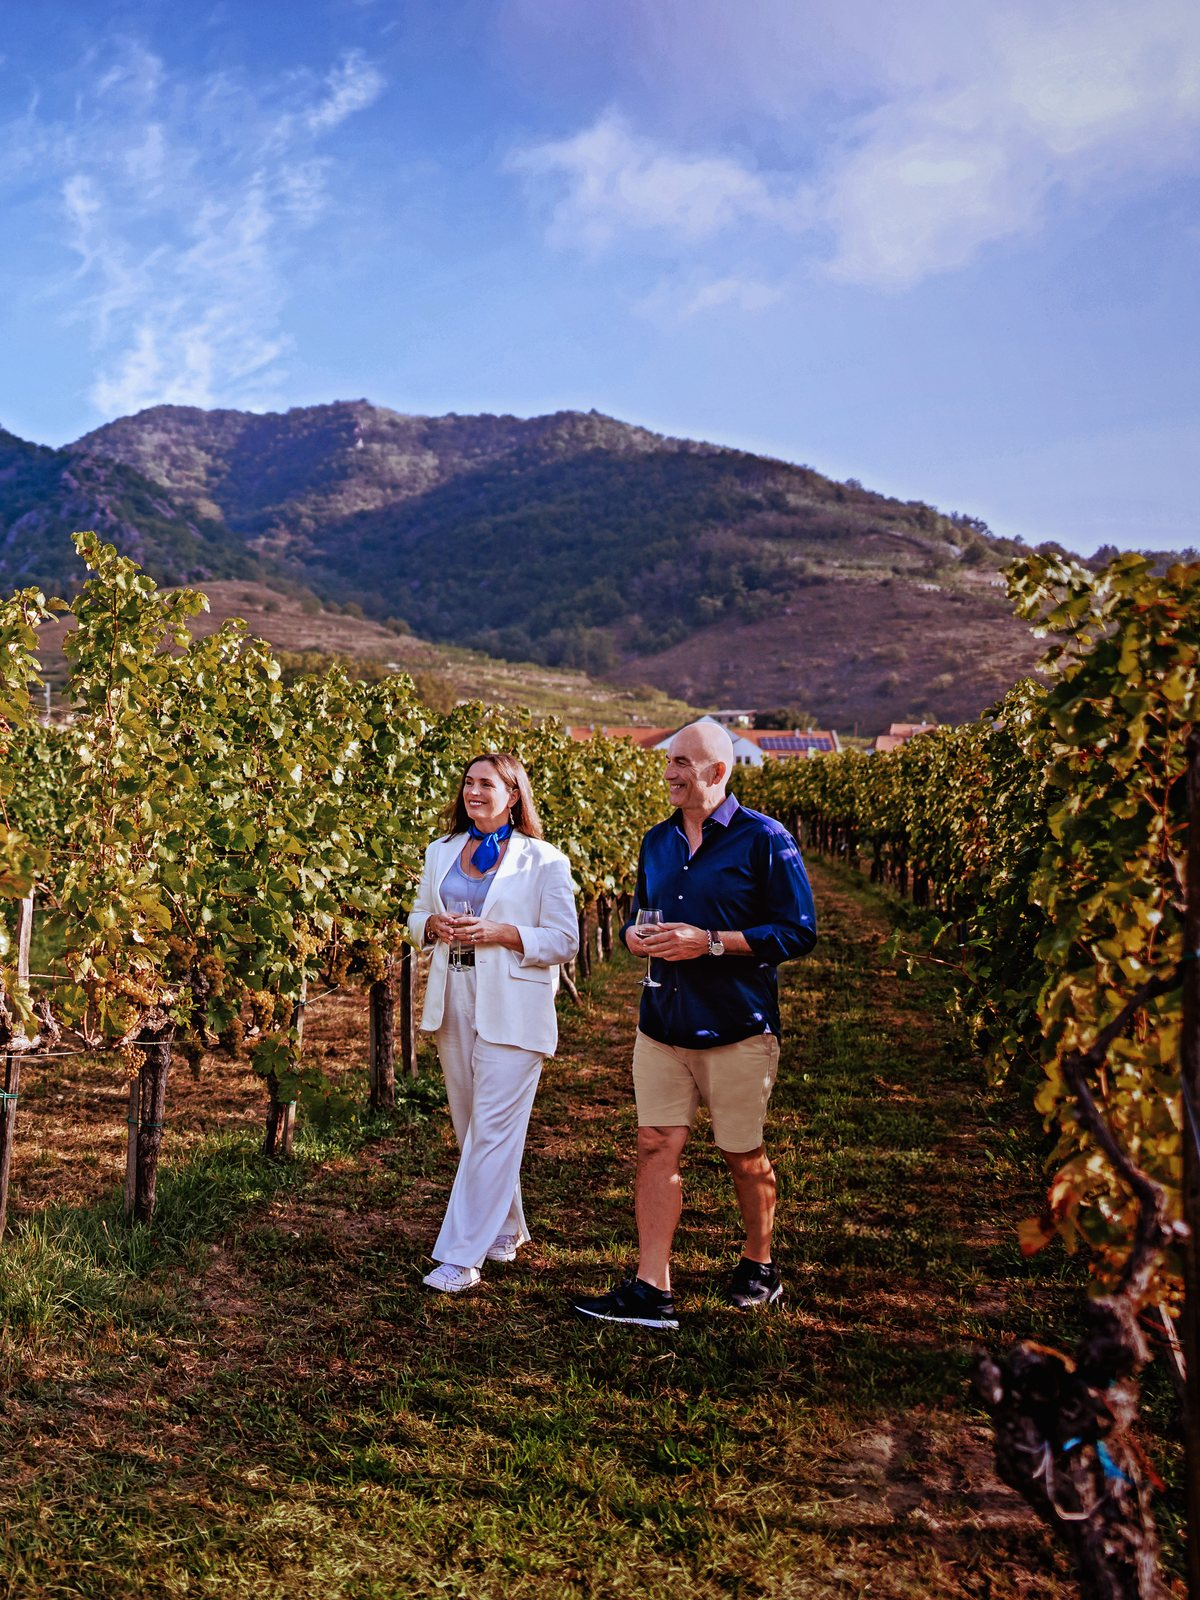
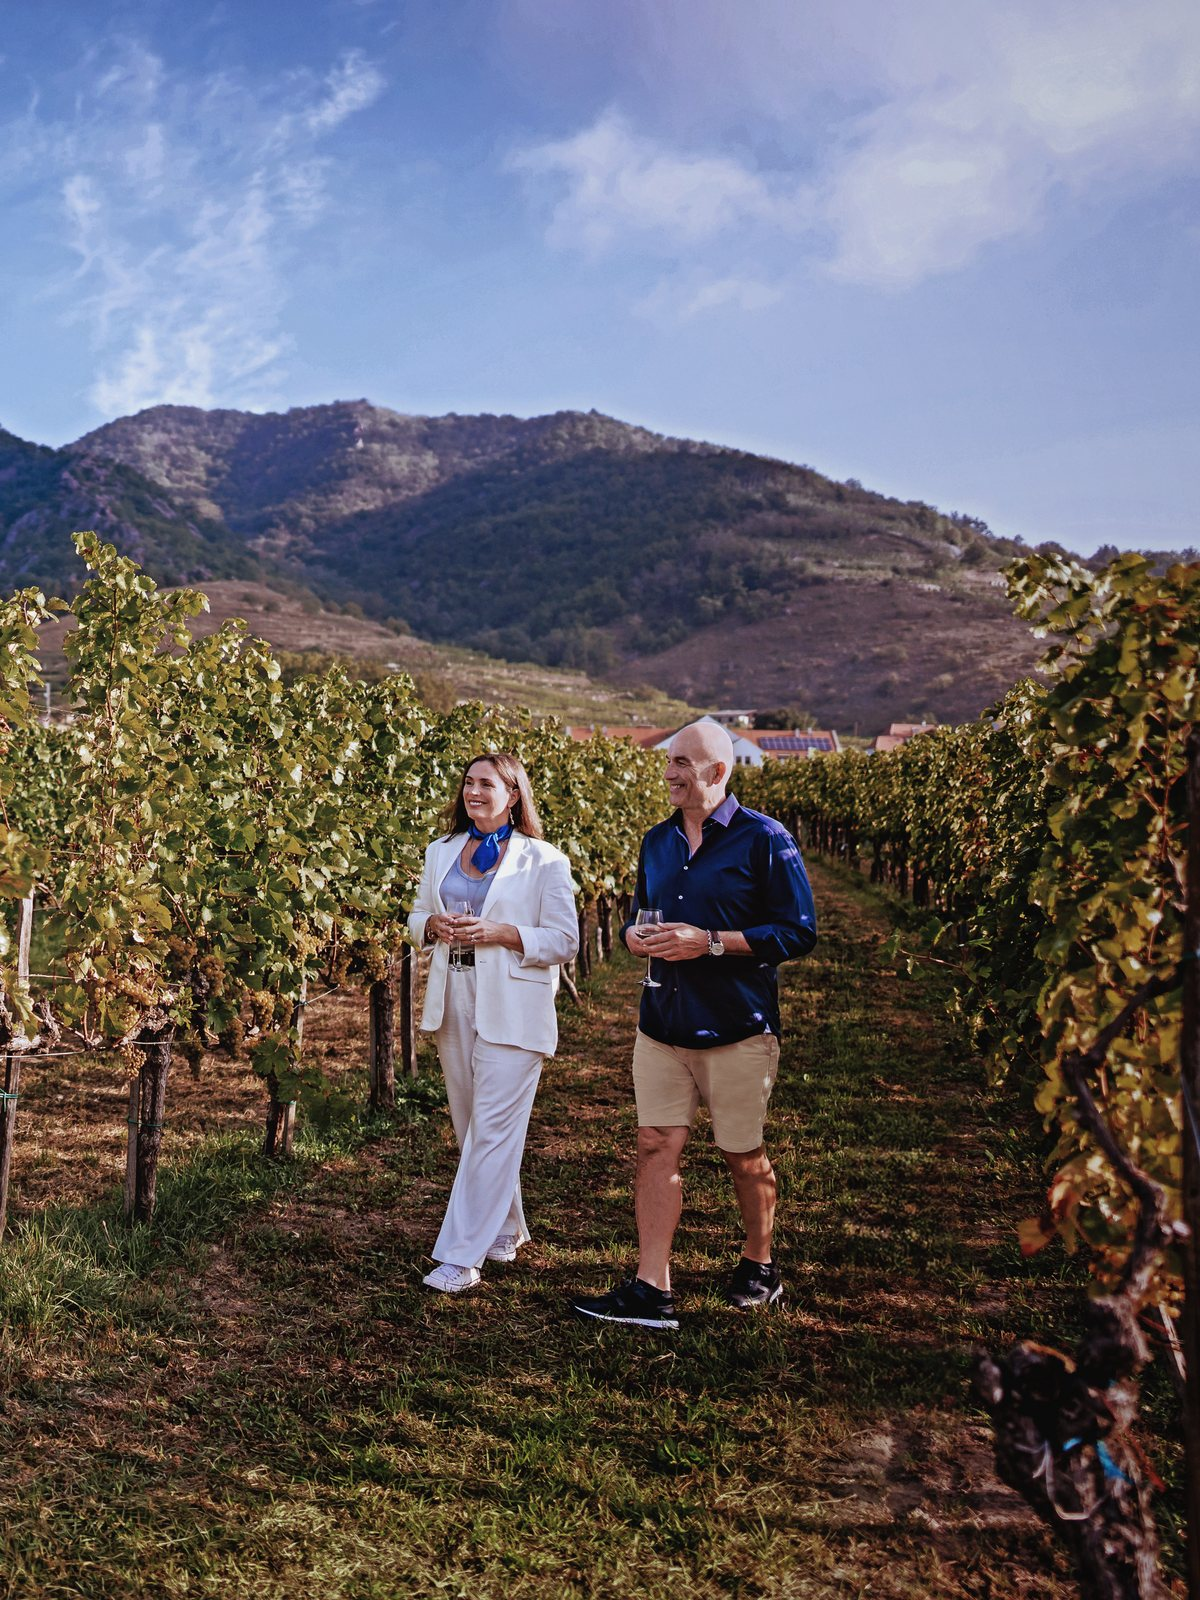
Home photo refresh + reviews page wired in
- Hero: toned down the vineyard couple (less saturated/HDR), more natural
- Service cards: all 4 now consistent 3:4 crops (family, cruise=AmaStella,
  luxury=Sip & Sail, international=Normandy castle); fixes uneven sizing
- Vision 'good part': AmaViola sunset ship as darkened full-bleed
- Reviews page: linked site-wide in footers (was orphaned), added
  'read all on Google' path

diff --git a/index.html b/index.html
@@ -246,10 +246,10 @@
       <h2>Where will T&amp;M Travel take you?</h2>
     </div>
     <div class="svc">
-      <a class="svc-card" href="/services"><img src="/brand_assets/photos/family.jpg" alt="" width="1500" height="1500" loading="lazy" decoding="async" /><h3>Family Vacations</h3></a>
-      <a class="svc-card" href="/services"><img src="/brand_assets/photos/rc-amaviola-sunset.jpg" alt="" width="1400" height="1626" loading="lazy" decoding="async" /><h3>Cruise Vacations</h3></a>
-      <a class="svc-card" href="/services"><img src="/brand_assets/photos/hero-bg.jpg" alt="" width="2304" height="1536" loading="lazy" decoding="async" /><h3>Luxury Vacations</h3></a>
-      <a class="svc-card" href="/services"><img src="/brand_assets/photos/tourists.jpg" alt="" width="2560" height="1707" loading="lazy" decoding="async" /><h3>International Vacations</h3></a>
+      <a class="svc-card" href="/services"><img src="/brand_assets/photos/svc-family.jpg" alt="" width="900" height="1200" loading="lazy" decoding="async" /><h3>Family Vacations</h3></a>
+      <a class="svc-card" href="/services"><img src="/brand_assets/photos/svc-cruise.jpg" alt="" width="900" height="1200" loading="lazy" decoding="async" /><h3>Cruise Vacations</h3></a>
+      <a class="svc-card" href="/services"><img src="/brand_assets/photos/svc-luxury.jpg" alt="" width="900" height="1200" loading="lazy" decoding="async" /><h3>Luxury Vacations</h3></a>
+      <a class="svc-card" href="/services"><img src="/brand_assets/photos/svc-international.jpg" alt="" width="900" height="1200" loading="lazy" decoding="async" /><h3>International Vacations</h3></a>
     </div>
     <div class="svc-more"><a class="btn btn-ghost" href="/services">See all the ways we travel</a></div>
   </div>
@@ -259,7 +259,7 @@
 <section>
   <div class="wrap">
     <div class="vision">
-      <img src="/brand_assets/photos/couple.jpg" alt="Travelers enjoying their trip" width="1500" height="1500" loading="lazy" decoding="async" />
+      <img src="/brand_assets/photos/rc-amaviola-sunset.jpg" alt="An AmaWaterways river cruise ship at sunset, a vacation planned by T&amp;M Travel" width="1400" height="1626" loading="lazy" decoding="async" />
       <span class="eyebrow" style="color:var(--lime)">The good part</span>
       <h2>Picture the trip where nothing went wrong.</h2>
       <p>That's the goal. You make the memories, T&amp;M Travel sweats the details. Based in Central Oregon, planning trips for travelers everywhere by phone, email, and video.</p>
@@ -309,6 +309,7 @@
         <a href="/services">Vacations</a>
         <a href="/#how">How it works</a>
         <a href="/about">About</a>
+        <a href="/reviews">Reviews</a>
         <a href="/contact">Contact</a>
         <a href="/estimate">Plan your vacation</a>
       </nav>

diff --git a/about.html b/about.html
@@ -97,6 +97,7 @@
         <a href="/services">Vacations</a>
         <a href="/#how">How it works</a>
         <a href="/about">About</a>
+        <a href="/reviews">Reviews</a>
         <a href="/contact">Contact</a>
         <a href="/estimate">Plan your vacation</a>
       </nav>

diff --git a/contact.html b/contact.html
@@ -106,6 +106,7 @@
         <a href="/services">Vacations</a>
         <a href="/#how">How it works</a>
         <a href="/about">About</a>
+        <a href="/reviews">Reviews</a>
         <a href="/contact">Contact</a>
         <a href="/estimate">Plan your vacation</a>
       </nav>

diff --git a/estimate.html b/estimate.html
@@ -101,6 +101,7 @@
         <a href="/services">Vacations</a>
         <a href="/#how">How it works</a>
         <a href="/about">About</a>
+        <a href="/reviews">Reviews</a>
         <a href="/contact">Contact</a>
         <a href="/estimate">Plan your vacation</a>
       </nav>

diff --git a/privacy.html b/privacy.html
@@ -79,6 +79,7 @@
         <a href="/services">Vacations</a>
         <a href="/#how">How it works</a>
         <a href="/about">About</a>
+        <a href="/reviews">Reviews</a>
         <a href="/contact">Contact</a>
         <a href="/estimate">Plan your vacation</a>
       </nav>

diff --git a/reviews.html b/reviews.html
@@ -100,6 +100,7 @@
         <div class="who">K. Bitner<span>Group trip to Maui</span></div>
       </div>
     </div>
+    <div class="reviews-more"><a class="btn btn-ghost" href="https://www.google.com/maps/place/T%26M+Travel/data=!4m2!3m1!1s0x0:0xa0d5ba6ea9c85841" target="_blank" rel="noopener">Read all our reviews on Google</a></div>
   </div>
 </section>
 

diff --git a/services.html b/services.html
@@ -134,6 +134,7 @@
         <a href="/services">Vacations</a>
         <a href="/#how">How it works</a>
         <a href="/about">About</a>
+        <a href="/reviews">Reviews</a>
         <a href="/contact">Contact</a>
         <a href="/estimate">Plan your vacation</a>
       </nav>

diff --git a/thank-you.html b/thank-you.html
@@ -55,6 +55,7 @@
         <a href="/services">Vacations</a>
         <a href="/#how">How it works</a>
         <a href="/about">About</a>
+        <a href="/reviews">Reviews</a>
         <a href="/contact">Contact</a>
         <a href="/estimate">Plan your vacation</a>
       </nav>